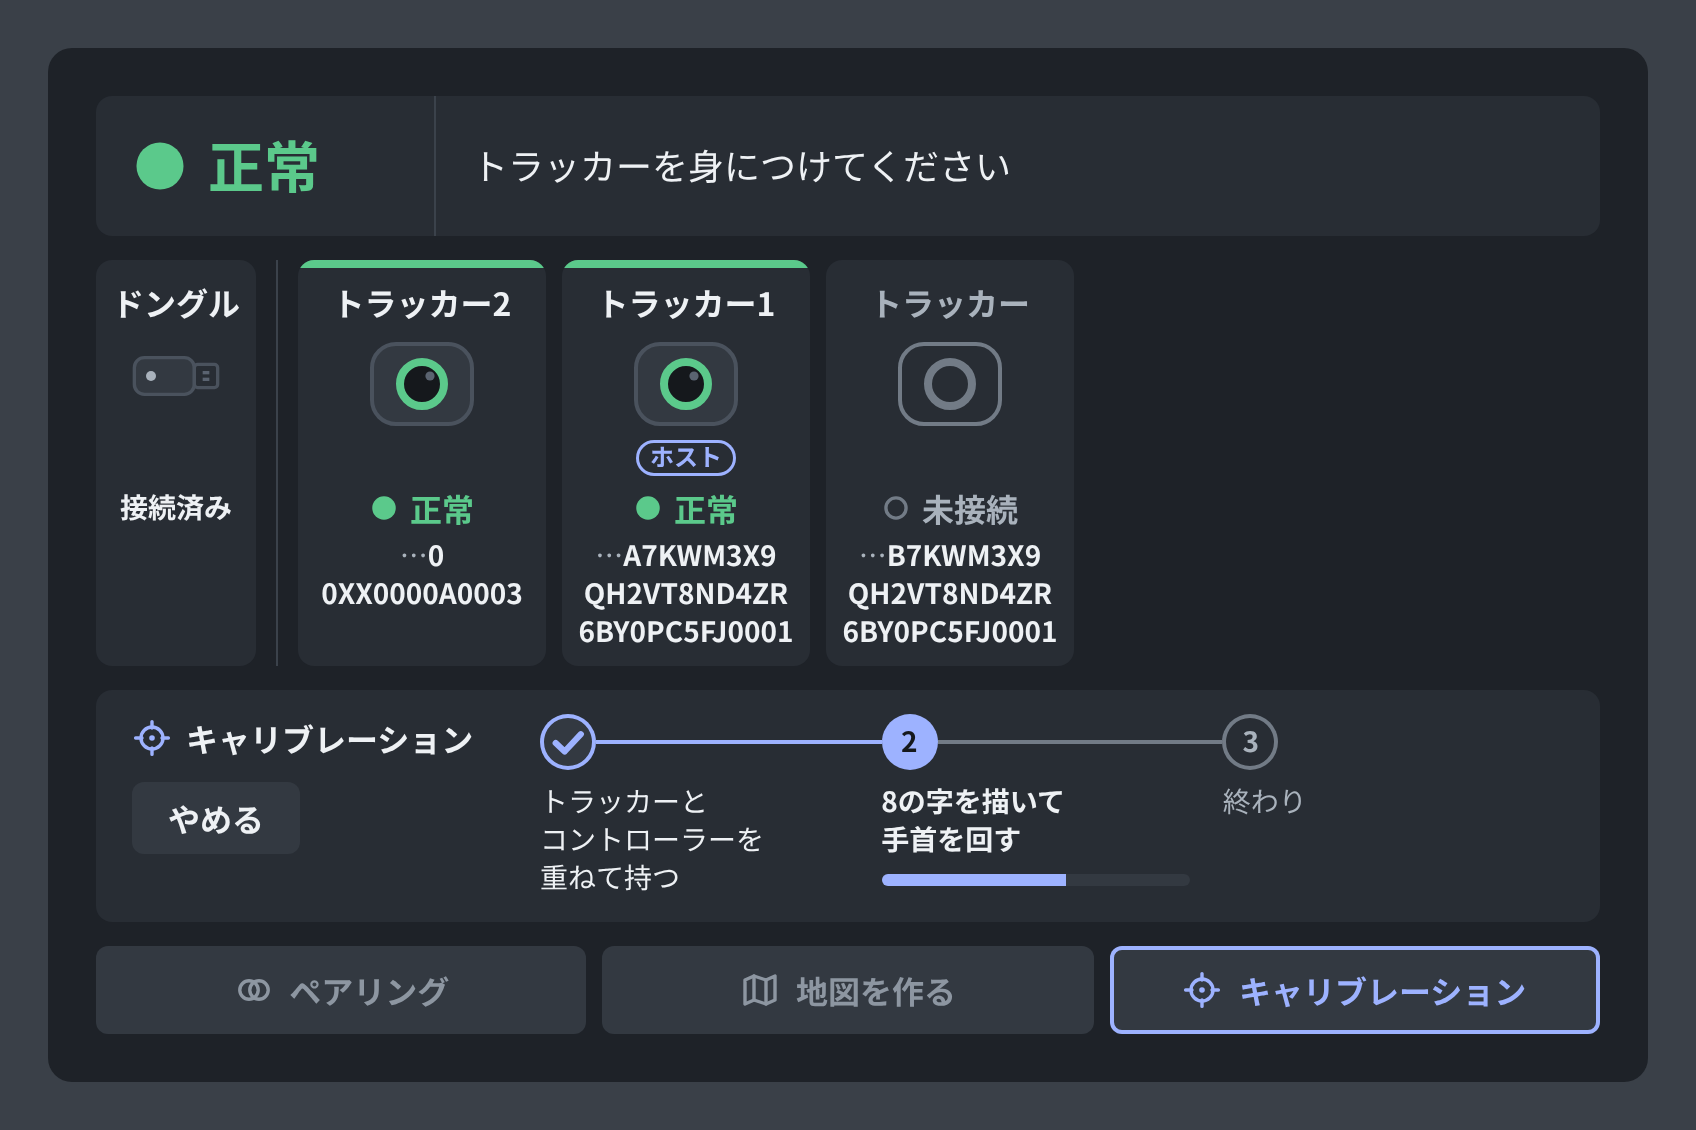
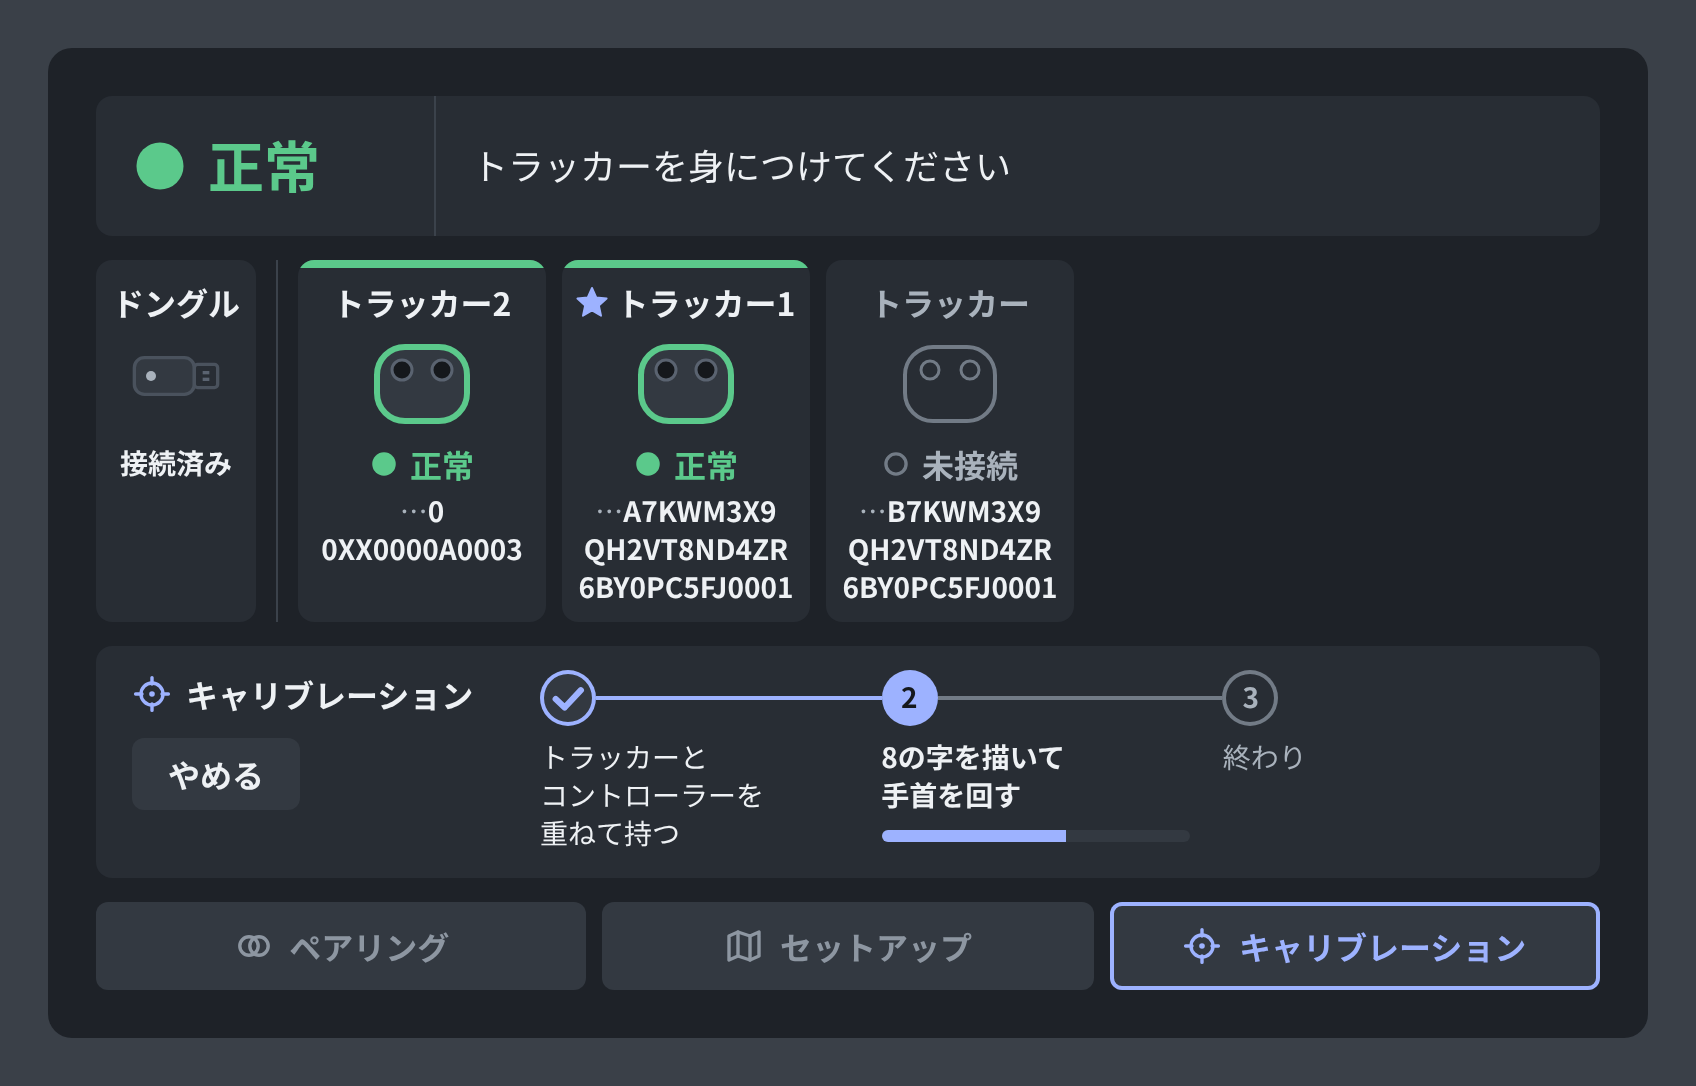
docs: mark the host with a star and redraw the tracker (owner's 3rd reply)
- Host: a star before the tile name; the word "ホスト" is gone.
- Tracker pictogram: a rounded body with two cameras near the top; the
  state colour is on the body's outline, not on a lens.
- Connection value: 接続済み / USB接続 / 未接続 instead of "ドングル".
- The map operation is named セットアップ, as in VIVE Hub.
- G4 and R3: say what the cameras should see (walls, furniture) and how
  to move (turn slowly left and right) instead of "toward the room".
- m1.md 9.2 lists the points of the reply handed to PM (guide steps,
  calibration button, VR/desktop split, settings, power-off/unpair,
  pairing screen, status words).

Role: UI/UX デザイン担当 (Claude Opus 5.5 xhigh)

Claude-Session: https://claude.ai/code/session_01KUwNu8iNmDXi5bBe13L3JF

diff --git a/docs/design/ui/mock/vr.html b/docs/design/ui/mock/vr.html
@@ -50,19 +50,16 @@
                 font-size: 56px; font-weight: 700; }
   .b-band .ln { padding: 0 36px; font-size: 36px; line-height: 52px; }
   .b-dev { display: flex; gap: 16px; }
-  .b-tile { background: var(--panel); border-radius: 16px; width: 248px; min-height: 330px; position: relative; overflow: hidden;
+  .b-tile { background: var(--panel); border-radius: 16px; width: 248px; min-height: 286px; position: relative; overflow: hidden;
             display: flex; flex-direction: column; align-items: center; padding: 20px 0 14px; }
   .b-tile .sbar { position: absolute; left: 0; right: 0; top: 0; height: 8px; }
-  .b-tile .nm { font-size: 32px; font-weight: 700; line-height: 44px; }
+  .b-tile .nm { font-size: 32px; font-weight: 700; line-height: 44px; display: flex; align-items: center; gap: 8px; }
   .b-tile .tl { margin-top: 10px; font-size: 28px; line-height: 38px; color: var(--ink-2); text-align: center; padding: 0 16px; }
   .b-tile .tl b { color: var(--ink); }
   .b-tile .pc { margin-top: 12px; height: 96px; }
   .b-tile .pc svg { width: 120px; height: 96px; }
   .b-tile .st { margin-top: 12px; display: flex; align-items: center; gap: 12px; font-size: 32px; font-weight: 700; line-height: 40px; }
   .b-tile .st svg { width: 28px; height: 28px; }
-  .b-tile .hostrow { height: 36px; margin-top: 8px; display: flex; align-items: center; }
-  .b-tag { font-size: 24px; font-weight: 700; line-height: 32px; padding: 2px 14px; border-radius: 18px; color: var(--accent);
-           box-shadow: inset 0 0 0 3px var(--accent); }
   .b-dongle { width: 160px; }
   .b-dongle .pc svg { width: 100px; height: 80px; }
   .b-sep { width: 2px; background: var(--line); margin: 0 4px; }
@@ -156,13 +153,12 @@
     .map((l, i) => (i === 0 ? `…<b>${esc(l.slice(1))}</b>` : `<b>${esc(l)}</b>`)).join("<br>");
   const btile = (d) => d.st
     ? `<div class="b-tile"><div class="sbar" style="background:${col[d.st]}"></div>` +
-      `<div class="nm">${d.hub ? W.tracker + d.hub : W.tracker}</div>` +
+      `<div class="nm">${d.host ? I.star(32, "var(--accent)") : ""}<span>${d.hub ? W.tracker + d.hub : W.tracker}</span></div>` +
       `<div class="pc">${I.tracker(col[d.st], "solid")}</div>` +
-      `<div class="hostrow">${d.host ? `<span class="b-tag">${W.host}</span>` : ""}</div>` +
       `<div class="st">${I.state(d.st, 28, col[d.st])}<span style="color:${col[d.st]}">${W.state[d.st]}</span></div>` +
       `<div class="tl">${tailH(d.tail)}</div></div>`
     : `<div class="b-tile"><div class="nm" style="color:var(--ink-2)">${W.tracker}</div>` +
-      `<div class="pc">${I.tracker("var(--idle)", "outline")}</div><div class="hostrow"></div>` +
+      `<div class="pc">${I.tracker("var(--idle)", "outline")}</div>` +
       `<div class="st" style="color:var(--ink-2)">${I.state("none", 28, "var(--idle)")}<span>${W.state.none}</span></div>` +
       `<div class="tl">${tailH(d.tail)}</div></div>`;
   const steps = ["トラッカーと|コントローラーを|重ねて持つ", "8の字を描いて|手首を回す", "終わり"];
@@ -177,7 +173,7 @@
     `<div class="b-band"><div class="ov" style="color:var(--ok)">${I.state("ok", 56, "var(--ok)")}<span>${W.overall.ok}</span></div>` +
       `<div class="ln">${esc(X.plain(X.guide.G5.line))}</div></div>` +
     `<div class="b-dev"><div class="b-tile b-dongle"><div class="nm">${W.dongleName}</div>` +
-      `<div class="pc">${I.dongle("on")}</div><div class="hostrow"></div><div class="st" style="font-size:28px">${W.dongle.on}</div></div><div class="b-sep"></div>${devs.map(btile).join("")}</div>` +
+      `<div class="pc">${I.dongle("on")}</div><div class="st" style="font-size:28px">${W.dongle.on}</div></div><div class="b-sep"></div>${devs.map(btile).join("")}</div>` +
     `<div class="b-low"><div class="b-frame"><div class="hd"><div class="nm">${I.op("cal", "var(--accent)")}<span>${W.ops.cal}</span></div>` +
       `<span class="b-btn" style="height:72px">${W.stop}</span></div><div class="b-steps">${stepsH}</div></div>` +
       `<div class="b-ops"><span class="b-btn off">${I.op("pair")}${W.ops.pair}</span><span class="b-btn off">${I.op("map")}${W.ops.map}</span>` +

diff --git a/docs/design/ui/mock/window.html b/docs/design/ui/mock/window.html
@@ -46,7 +46,7 @@
   .band .btn { margin-right: 20px; }
 
   /* 3. Devices */
-  .devices { display: flex; align-items: stretch; min-height: 269px; }
+  .devices { display: flex; align-items: stretch; min-height: 245px; }
   .tile.ghost { background: none; box-shadow: inset 0 0 0 1.5px var(--line); }
   .tile.ghost .pict { margin-top: 44px; }
   .devices .sep { width: 1px; background: var(--line); margin: 0 12px; flex: none; }
@@ -58,12 +58,10 @@
   .tile { background: var(--panel); border-radius: 8px; flex: none; position: relative; overflow: hidden;
           padding: 14px 12px 12px; display: flex; flex-direction: column; }
   .tile .sbar { position: absolute; left: 0; right: 0; top: 0; height: 4px; }
-  .tile .name { font-size: 16px; font-weight: 700; line-height: 22px; text-align: center; white-space: nowrap; }
+  .tile .name { font-size: 16px; font-weight: 700; line-height: 22px; white-space: nowrap; height: 22px;
+                display: flex; justify-content: center; align-items: center; gap: 4px; }
   .tile .pict { display: flex; justify-content: center; margin-top: 8px; height: 48px; }
-  .tile .hostrow { height: 20px; margin-top: 4px; display: flex; justify-content: center; align-items: center; }
-  .tag { font-size: 12px; font-weight: 700; line-height: 16px; padding: 1px 8px; border-radius: 10px;
-         color: var(--accent); box-shadow: inset 0 0 0 1.5px var(--accent); }
-  .tile .state { height: 22px; margin-top: 2px; display: flex; justify-content: center; align-items: center; gap: 6px;
+  .tile .state { height: 22px; margin-top: 8px; display: flex; justify-content: center; align-items: center; gap: 6px;
                  font-size: 16px; font-weight: 700; line-height: 22px; }
   .tile hr { border: 0; border-top: 1px solid var(--line); margin: 8px 0; width: 100%; }
   .tile .kv { display: flex; align-items: center; gap: 6px; font-size: 13px; line-height: 20px; height: 20px; white-space: nowrap; }
@@ -159,10 +157,11 @@
   function tile(d) {
     const off = d.link === "none";
     const st = d.state;
-    const ring = st ? c(st) : "var(--idle)";
+    const frame = st ? c(st) : "var(--idle)";
     const bar = st ? `<div class="sbar" style="background:${c(st)}"></div>` : "";
-    // Tile title (3.3): "トラッカー{N}" with the VIVE Hub number, else "トラッカー" (the host is shown by the tag).
-    const name = d.hub ? `${W.tracker}${d.hub}` : W.tracker;
+    // Tile title (3.4): "トラッカー{N}" with the VIVE Hub number, else "トラッカー". The host has a star before it.
+    const name = (d.host ? I.star(16, grey ? "var(--muted)" : "var(--accent)") : "") +
+      `<span>${d.hub ? `${W.tracker}${d.hub}` : W.tracker}</span>`;
     const stateRow = st
       ? `${I.state(st, 14, c(st))}<span style="color:${c(st)}">${W.state[st]}</span>`
       : `${I.state("none", 14, "var(--idle)")}<span>${W.state.none}</span>`;
@@ -175,8 +174,7 @@
     const ser = d.serial ? serialHtml(d.serial, d.tail, tw - 24) : `<span class="unk">${W.unknown}</span>`;
     return `<div class="tile${off && !st ? " off" : ""}${grey ? " grey" : ""}" style="width:${tw}px">${bar}
       <div class="name">${name}</div>
-      <div class="pict">${I.tracker(ring, off ? "outline" : "solid")}</div>
-      <div class="hostrow">${d.host ? `<span class="tag"${grey ? ' style="color:var(--muted);box-shadow:inset 0 0 0 1.5px var(--muted)"' : ""}>${W.host}</span>` : ""}</div>
+      <div class="pict">${I.tracker(frame, off ? "outline" : "solid")}</div>
       <div class="state">${stateRow}</div>
       <hr>
       <div class="kvs${tw - 24 >= 148 ? " one" : ""}">${linkRow}${batRow}</div>
@@ -190,7 +188,6 @@
     return `<div class="tile dongle${grey ? " grey" : ""}" style="width:120px">
       <div class="name">${W.dongleName}</div>
       <div class="pict">${I.dongle(grey && k === "on" ? "on" : k)}</div>
-      <div class="hostrow"></div>
       <div class="state" style="color:${k === "on" && !grey ? "var(--ink)" : "var(--ink-2)"}">${W.dongle[k]}</div>
     </div>`;
   }

diff --git a/docs/design/ui/mock/icons.js b/docs/design/ui/mock/icons.js
@@ -38,16 +38,28 @@
     return svg(s, s, `<circle cx="${c}" cy="${c}" r="${r - sw / 2}" fill="none" stroke="${color}" stroke-width="${sw}"/>`, "g");
   }
 
-  // Tracker pictogram, 60 x 48 (not a picture of the product: a rounded body and one lens).
-  // ring: colour of the lens ring (the state colour). body: "solid" when connected, "outline" when not.
-  function tracker(ring, body) {
+  // Tracker pictogram, 60 x 48. Not a picture of the product: a rounded body seen from the front with its
+  // two cameras near the top edge. frame: colour of the body's outline (the state colour, or idle).
+  // body: "solid" when connected, "outline" when not (no fill, thin outline, cameras as rings).
+  function tracker(frame, body) {
     const solid = body !== "outline";
+    const lens = (cx) => solid
+      ? `<circle cx="${cx}" cy="17" r="5" fill="#15181C" stroke="#5A6370" stroke-width="1.5"/>`
+      : `<circle cx="${cx}" cy="17" r="4.5" fill="none" stroke="${frame}" stroke-width="1.5"/>`;
     return svg(60, 48,
-      `<rect x="5" y="4" width="50" height="40" rx="12" fill="${solid ? "var(--panel-2)" : "none"}" ` +
-        `stroke="${solid ? "#4A525D" : "var(--idle)"}" stroke-width="2"/>` +
-      `<circle cx="30" cy="24" r="11" fill="${solid ? "#15181C" : "none"}"/>` +
-      `<circle cx="30" cy="24" r="11" fill="none" stroke="${ring}" stroke-width="4"/>` +
-      (solid ? `<circle cx="34" cy="20" r="2.3" fill="#5A6370"/>` : ""), "pict");
+      `<rect x="7.5" y="5.5" width="45" height="37" rx="14" fill="${solid ? "var(--panel-2)" : "none"}" ` +
+        `stroke="${frame}" stroke-width="${solid ? 3 : 2}"/>` +
+      lens(20) + lens(40), "pict");
+  }
+
+  // Host mark, a five-pointed star in a box of s (the host tracker, like VIVE Hub; no word "ホスト").
+  function star(s, color) {
+    const c = s / 2, R = s * 0.48, r = R * 0.47, pts = [];
+    for (let i = 0; i < 10; i++) {
+      const a = (-90 + i * 36) * Math.PI / 180, q = i % 2 ? r : R;
+      pts.push(`${(c + q * Math.cos(a)).toFixed(2)},${(c + 0.04 * s + q * Math.sin(a)).toFixed(2)}`);
+    }
+    return svg(s, s, `<polygon points="${pts.join(" ")}" fill="${color}" stroke="${color}" stroke-width="${(s * 0.06).toFixed(2)}" stroke-linejoin="round"/>`, "g");
   }
 
   // Dongle pictogram, 60 x 48: a USB stick with its plug. look: "on", "off", "unknown" (dashed outline).
@@ -108,5 +120,5 @@
     return svg(s, s, `<path d="M${s * 0.28} ${s * 0.52}L${s * 0.44} ${s * 0.67}L${s * 0.73} ${s * 0.36}" fill="none" stroke="${color}" stroke-width="${s * 0.11}" stroke-linecap="round" stroke-linejoin="round"/>`, "g");
   }
 
-  window.OpenUTIcons = { state, tracker, dongle, link, battery, op, check, arc };
+  window.OpenUTIcons = { state, tracker, star, dongle, link, battery, op, check, arc };
 })();

diff --git a/docs/design/ui/mock/text.js b/docs/design/ui/mock/text.js
@@ -30,7 +30,7 @@
       "R1 Escalated": [`まだ|追跡が|始まりません${more}`, R1A],
       "R1 Resolved": [`追跡が|始まらない|問題が|直りました${more}`, null],
       "R2 Raised": [`${T}の|準備に|時間が|かかっています${more}`, `${H}の|近くに|置いて、|待ってください`],
-      "R3 Raised": [`${T}の|追跡が|始まりません${more}`, `手に持ち、|部屋の中を|見回すように|ゆっくり|動かしてください`],
+      "R3 Raised": [`${T}の|追跡が|始まりません${more}`, `手に持ち、|カメラに|壁や家具が|映るように、|ゆっくり|左右に|向きを|変えてください`],
       "R4 Raised": [`${T}の|接続が|切れました${more}`, `電源が|入っているか|確かめてください`],
       // Only in the list of the main window's status band, for 30 seconds: not pushed (design 7.1, m1.md 3.3).
       "R4 Resolved": [`${T}が|つながりました${more}`, null],
@@ -46,7 +46,7 @@
     G3: { step: "電源を|入れる", line: "トラッカーの|電源を|入れてください" },
     G4: {
       step: "追跡を|待つ",
-      line: "追跡が|始まるまで|待ってください。\n始まらないときは、|カメラの前を|ふさがずに、|トラッカーを|部屋へ向けて|ゆっくり|動かしてください",
+      line: "追跡が|始まるまで|待ってください。\n始まらないときは、|トラッカーを|手に持ち、|カメラに|壁や家具が|映るように、|ゆっくり|左右に|向きを|変えてください",
     },
     G5: { step: "身につける", line: "トラッカーを|身につけてください" },
   };
@@ -61,16 +61,15 @@
   const words = {
     overall: { ok: "正常", wait: "待機中", fault: "異常" },
     state: { ok: "正常", wait: "待機中", fault: "異常", none: "未接続" },
-    link: { dongle: "ドングル", usb: "USB", none: "未接続" },
+    link: { dongle: "接続済み", usb: "USB接続", none: "未接続" },
     dongle: { on: "接続済み", off: "未接続", unknown: "—" },
     unknown: "—",
-    host: "ホスト",
     tracker: "トラッカー",
     dongleName: "ドングル",
     serial: "シリアル番号",
     firmware: "ファームウェア",
     prepare: "準備",
-    ops: { pair: "ペアリング", map: "地図を作る", cal: "キャリブレーション" },
+    ops: { pair: "ペアリング", map: "セットアップ", cal: "キャリブレーション" },
     stop: "やめる",
     pickFolder: "フォルダーを選ぶ",
     notify: "通知",

diff --git a/docs/design/ui/mock/fit.js b/docs/design/ui/mock/fit.js
@@ -22,14 +22,14 @@ const path = require("path");
     const rows = [];
     const add = (what, need, have) => rows.push({ what, need: Math.ceil(need), have });
     add("タイルの名前（16 Bold。「トラッカー16」）", m(700, 16, "トラッカー16"), MIN_IN);
+    add("ホストの名前（星 16 ＋ 4 ＋ 16 Bold「トラッカー16」）", 16 + 4 + m(700, 16, "トラッカー16"), MIN_IN);
     add("シリアル番号（13。13 文字、末尾 5 文字が Bold）", m(400, 13, "00XX0000") + m(700, 13, "A0001"), MIN_IN);
     add("シリアル番号（13 Bold。13 文字がすべて末尾）", m(700, 13, "00XX0000A0001"), MIN_IN);
     add("ファームウェアの版（13。「10.10.9999.9999」）", m(400, 13, "10.10.9999.9999"), MIN_IN);
     add("状態（印 14 ＋ 6 ＋ 16 Bold「待機中」）", 14 + 6 + m(700, 16, "待機中"), MIN_IN);
-    add("ホストの印（12 Bold ＋ 内側 8 × 2）", m(700, 12, W.host) + 16, MIN_IN);
-    add("接続（印 16 ＋ 6 ＋ 13「ドングル」）", 16 + 6 + m(400, 13, "ドングル"), MIN_IN);
+    add("接続（印 16 ＋ 6 ＋ 13「USB接続」）", 16 + 6 + Math.max(m(400, 13, W.link.dongle), m(400, 13, W.link.usb)), MIN_IN);
     add("電池（印 26 ＋ 6 ＋ 13 Bold「100%」）", 26 + 6 + m(700, 13, "100%"), MIN_IN);
-    add("接続と電池を 1 行に（既定の幅。間 8）", 16 + 6 + m(400, 13, "ドングル") + 8 + 26 + 6 + m(700, 13, "100%"), DEF_IN);
+    add("接続と電池を 1 行に（既定の幅。間 8）", 16 + 6 + Math.max(m(400, 13, W.link.dongle), m(400, 13, W.link.usb)) + 8 + 26 + 6 + m(700, 13, "100%"), DEF_IN);
     add("ドングルの状態（16 Bold「接続済み」。幅 120、内側 96）", m(700, 16, "接続済み"), 96);
     add("全体（印 28 ＋ 12 ＋ 28 Bold「待機中」＋ 左 20。幅 184）", 28 + 12 + m(700, 28, "待機中") + 20, 184);
     add("操作のボタン（印 20 ＋ 10 ＋ 14 Bold「キャリブレーション」＋ 内側 16 × 2。幅 232）", 20 + 10 + m(700, 14, W.ops.cal) + 32, 232);

diff --git a/docs/design/ui/mock/contrast.js b/docs/design/ui/mock/contrast.js
@@ -25,7 +25,7 @@ add('灰色の状態の名前 / タイル', '文字', t.muted, t.panel, 4.5);
 add('正常の文字 / 帯・タイル', '文字', t.ok, t.panel, 4.5);
 add('待機中の文字 / 帯・タイル', '文字', t.wait, t.panel, 4.5);
 add('異常の文字 / 帯・タイル', '文字', t.fault, t.panel, 4.5);
-add('ホストの印の文字 / タイル', '文字', t.accent, t.panel, 4.5);
+add('ホストの星 / タイル', '図形', t.accent, t.panel, 3);
 add('いまの段の番号 / いまの段の丸', '文字', t.onAccent, t.accent, 4.5);
 add('「フォルダーを選ぶ」の文字 / ボタン', '文字', t.onAccent, t.accent, 4.5);
 add('段の進み（1/2）/ その地', '文字', t.accent, t.panel2, 4.5);
